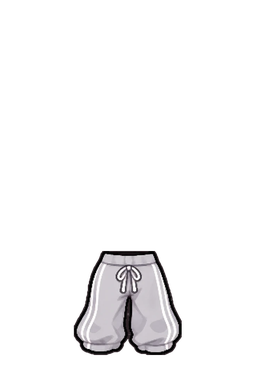
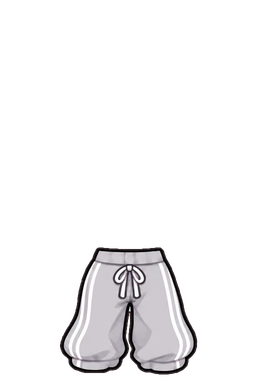
아바타: 하의 48개 (새 36개), 몸에 맞게 허리·길이 맞춤
Claude-Session: https://claude.ai/code/session_015VxnKS3baGbwJXJNNp74ix

Changed region(s): [[0.2171, 0.6218, 0.7752, 0.9948]]

diff --git a/avatar.js b/avatar.js
@@ -15,13 +15,16 @@ const AV_NAMES = {
   eye: ["기본 눈", "날렵한 눈", "졸린 눈", "웃는 눈", "윙크", "반짝 눈", "울먹 눈", "화난 눈", "옆 보는 눈", "걱정 눈", "놀란 눈", "시큰둥 눈", "하트 눈", "빙글빙글 눈", "속눈썹 눈", "점 눈"],
   cheek: ["볼터치 없음", "볼 정중앙", "콧잔등 + 주근깨", "볼 정중앙 + 주근깨", "빗금 볼터치", "작은 동그라미", "콧잔등", "크게 발그레"],
   mouth: ["미소", "활짝 웃는 입", "고양이 입", "작은 입", "시무룩 입", "삐뚤 입", "씩 웃는 입", "메롱", "이 보이게 웃기", "놀란 입", "뽀뽀 입", "일자 입", "송곳니 웃음", "울먹 입", "크게 웃는 입", "쪽 입"],
-  bottom: ["하늘 주름치마", "검정 주름치마", "베이지 반바지", "청반바지", "검정 카고 바지", "회색 운동복 바지", "남색 트레이닝 바지", "프릴 치마", "분홍 체크 치마", "카키 반바지", "체인 치마", "체크 바지"],
+  bottom: ["하늘 주름치마", "검정 주름치마", "베이지 반바지", "청반바지", "검정 카고 바지", "회색 운동복 바지", "남색 트레이닝 바지", "프릴 치마", "분홍 체크 치마", "카키 반바지", "체인 치마", "체크 바지",
+    "연청 와이드 바지", "검정 슬랙스", "베이지 플리츠 롱스커트", "데님 롱스커트", "카키 카고 바지", "크림 골지 바지", "남색 트레이닝 긴바지", "꽃무늬 캉캉 롱스커트", "갈색 코듀로이 바지", "회색 플리츠 롱스커트", "진청 부츠컷 바지", "체크 와이드 바지",
+    "세일러 주름치마", "분홍 프릴 치마", "노랑 공주 치마", "보라 별 치마", "분홍 체크 체인 치마", "하늘 진주 롱스커트", "꽃잎 치마", "빨강 리본 치마", "크림 리본 치마", "무지개 프릴 치마", "보라 달 롱스커트", "하얀 프릴 반바지",
+    "세일러 롱스커트", "분홍 프릴 롱스커트", "노랑 공주 롱스커트", "보라 별 롱스커트", "분홍 체크 롱스커트", "하늘 진주 드레스 치마", "꽃잎 롱스커트", "빨강 리본 롱스커트", "크림 리본 롱스커트", "무지개 프릴 롱스커트", "보라 달 드레스 치마", "하얀 프릴 롱스커트"],
 };
 const AV_PRICE = { // 0이면 무료 (기본으로 입는 것)
   hair: [0, 6, 6, 7, 5, 7, 8, 8, 0, 9, 9, 8],
   top: [8, 7, 9, 7, 9, 0, 10, 8, 9, 0, 9, 10, 9, 9, 8, 10, 11, 11, 12, 10, 11, 12, 9, 11, 11, 10, 10, 10, 9, 10, 11, 10, 10, 9, 11, 10, 11, 10, 11, 9],
   eye: Array(16).fill(0), mouth: Array(16).fill(0), cheek: Array(8).fill(0), // 눈·입·볼터치는 모두 무료
-  bottom: [6, 6, 0, 0, 7, 6, 7, 8, 7, 0, 8, 7],
+  bottom: [6, 6, 0, 0, 7, 6, 7, 8, 7, 0, 8, 7, 8, 8, 8, 8, 8, 7, 7, 9, 8, 8, 8, 8, 8, 10, 10, 9, 9, 11, 10, 9, 9, 10, 11, 9, 10, 11, 11, 10, 10, 12, 11, 11, 10, 11, 12, 10],
 };
 const AV_ITEMS = Object.entries(AV_NAMES).flatMap(([slot, names]) => names.map((name, i) => ({ id: `${slot}-${i}`, slot, name, price: AV_PRICE[slot][i], img: `av/${slot}-${i}.png` })));
 const AV_REQ = { eye: "eye-0", mouth: "mouth-0", cheek: "cheek-1", hair: "hair-0", top: "top-5", bottom: "bottom-9" }; // 기본 옷 (흰 셔츠·카키 반바지). 이 칸들은 벗을 수 없어 늘 입고 있음

diff --git a/av/bottoms.py b/av/bottoms.py
@@ -1,0 +1,54 @@
+# 하의 시트(raw/bot7~10.webp, 저장소에 없음)를 잘라 av/bottom-N.png로. av/ 안에서: python3 bottoms.py ./
+# 순서: bot8(예전 하의 12개, 번호 그대로) → bot7 → bot9 → bot10
+from PIL import Image; import numpy as np; from scipy import ndimage
+import sys
+OUT=sys.argv[1] if len(sys.argv)>1 else './'
+W,H=516,772; S=2                      # 2배 캔버스에서 작업
+INK=np.array([45,34,38.])
+TOPY=248; CX=129*S                    # 허리 위 끝 (출력 px), 상의 밑에 들어감
+WAIST=70                              # 허리 폭 (출력 px): 몸통 60 + 여유
+FOOT=374                              # 긴 바지·치마 끝 (발목). 이보다 길면 세로로 줄임
+SHEETS=['bot8','bot7','bot9','bot10']
+def ramp(m,s=1.2): return np.clip((ndimage.gaussian_filter(m.astype(float),s)-.5)*3+.5,0,1)
+def items(f):
+  a=np.array(Image.open(f'raw/{f}.webp').convert('RGB')).astype(float)
+  m=a.min(-1)<220; lab,n=ndimage.label(ndimage.binary_dilation(m,iterations=8))
+  objs=[s for s in ndimage.find_objects(lab) if (s[0].stop-s[0].start)*(s[1].stop-s[1].start)>8000]
+  objs=sorted(objs,key=lambda s:s[0].start); rows=[]  # 위 끝이 비슷한 것끼리 한 줄 → 줄마다 왼쪽부터
+  for o in objs:
+    if rows and o[0].start-rows[-1][0][0].start<150: rows[-1].append(o)
+    else: rows.append([o])
+  objs=[o for r in rows for o in sorted(r,key=lambda s:s[1].start)]
+  out=[]
+  for s in objs:
+    y0,y1,x0,x1=max(s[0].start-4,0),s[0].stop+4,max(s[1].start-4,0),s[1].stop+4
+    out.append(a[y0:y1,x0:x1])
+  return out
+def make(c,name):
+  dark=c.min(-1)<220
+  m=ndimage.binary_fill_holes(ndimage.binary_closing(dark,iterations=2))
+  lab,n=ndimage.label(m); sz=ndimage.sum(m,lab,range(1,n+1)); m=np.isin(lab,1+np.where(sz>800)[0])
+  light=(c.mean(-1)>165)&(c.max(-1)-c.min(-1)<70)
+  m&=~((ndimage.distance_transform_edt(m)<=3)&light); m=ndimage.binary_opening(m,iterations=1)
+  core=ndimage.binary_erosion(m,iterations=1)
+  _,idx=ndimage.distance_transform_edt(~core,return_indices=True); rgb=c[idx[0],idx[1]]
+  ys,xs=np.where(m); y0=ys.min()
+  band=np.where(m[y0+4:y0+16].any(0))[0]; ww=band.max()-band.min()        # 허리띠 폭
+  im=Image.fromarray(np.dstack([rgb,m*255.]).astype(np.uint8)).crop((xs.min(),y0,xs.max()+1,ys.max()+1))
+  k=WAIST*S/ww; sw,sh=round(im.width*k),round(im.height*k)
+  if TOPY+sh/S>FOOT: sh=round((FOOT-TOPY)*S)
+  im=im.resize((sw,sh),Image.LANCZOS)
+  cx=(band.min()+band.max())/2-xs.min()
+  ox,oy=round(CX-cx*k),TOPY*S
+  cv=np.zeros((H,W,4)); cv[oy:oy+sh,ox:ox+sw]=np.array(im)
+  a=ndimage.binary_opening(cv[...,3]>128,iterations=1); rgb=cv[...,:3]
+  ring=2; body=ramp(ndimage.binary_erosion(a,iterations=ring)); item=ramp(a)
+  outer=ramp(ndimage.distance_transform_edt(~a)<=1)
+  core=ndimage.binary_erosion(a,iterations=ring)
+  _,idx=ndimage.distance_transform_edt(~core,return_indices=True); rgb=rgb[idx[0],idx[1]]
+  out=body[...,None]*rgb+(1-body[...,None])*INK; al=np.maximum(item,outer)
+  Image.fromarray(np.dstack([out,al*255]).round().clip(0,255).astype(np.uint8)).resize((W//2,H//2),Image.LANCZOS).save(f'{OUT}bottom-{name}.png',optimize=True)
+k=0
+for f in SHEETS:
+  its=items(f); print(f,len(its))
+  for c in its: make(c,k); k+=1
